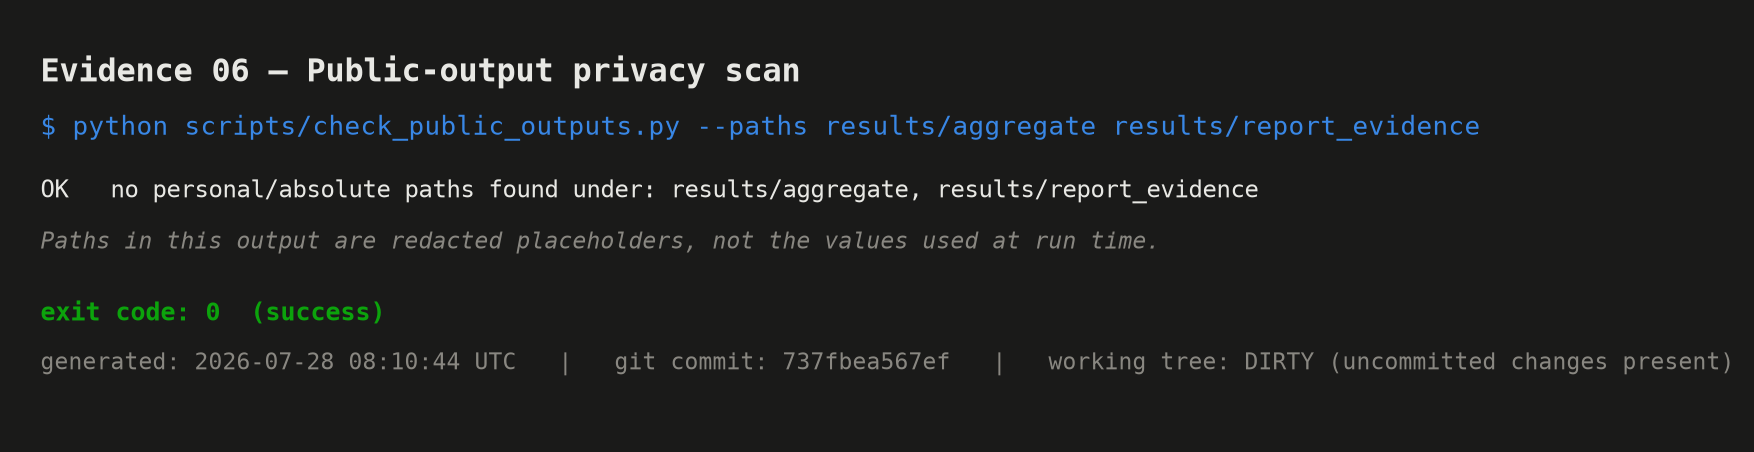
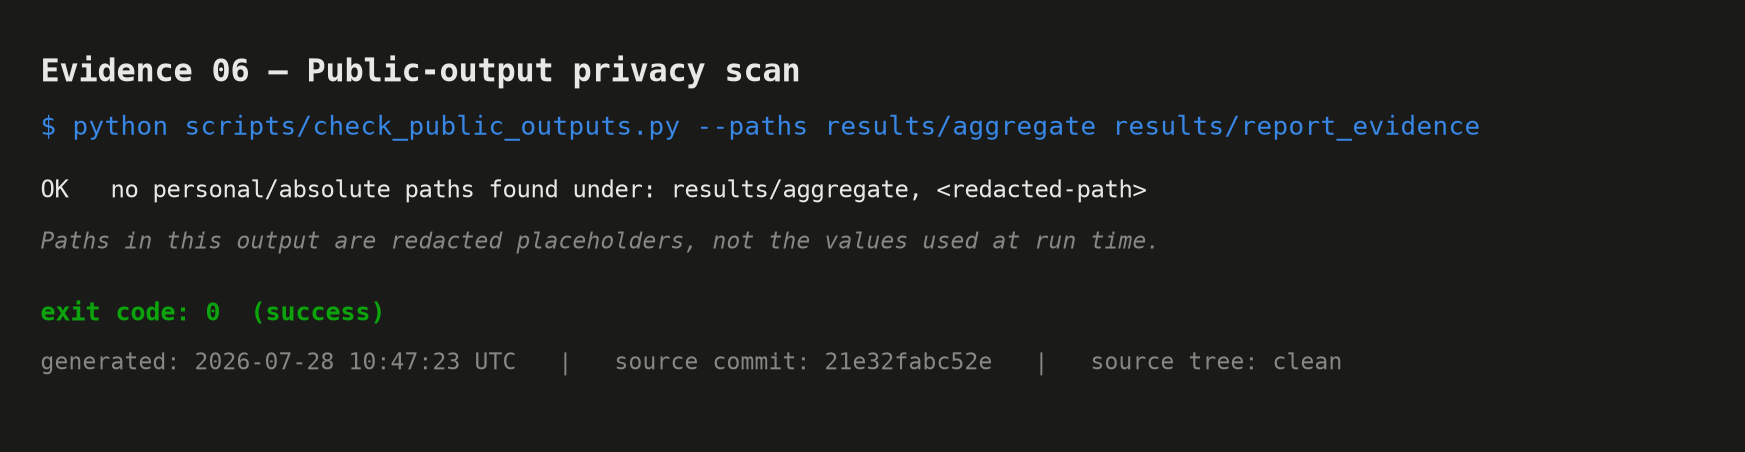
Regenerate final report evidence from a clean source commit
Generated outside the repository from source commit 21e32fa with a clean
working tree, then copied in, so the manifest can record the source state
truthfully instead of reporting the dirt that generating in place would
itself have created.

The pack now records source_git_commit, clean-tree and
outside-repository flags, and states explicitly that the evidence files
are added by this later commit rather than belonging to the source
commit named in them.

diff --git a/results/report_evidence/manual_screenshots_required.md b/results/report_evidence/manual_screenshots_required.md
@@ -8,11 +8,11 @@ These five items cannot be generated locally, and this project will not fabricat
 
 **Title.** GitHub Actions CI run passing for the final commit
 
-**Where to capture.** GitHub → the repository → Actions → the CI workflow run for the final commit
+**Where to capture.** GitHub → AdvancedComputingProject → Actions → CI → the run for the final `main` commit
 
-**Must be visible.** The workflow name, a green success tick, the commit SHA, and every job step listed.
+**Must be visible.** The repository name; the workflow name (CI); a green success status; the final commit SHA; and the completed `test` job with its steps expanded.
 
-**Must be redacted.** Your GitHub username/avatar if you prefer, and any other private repository in the sidebar.
+**Must be redacted.** Unrelated account information; any other repository in the sidebar; private email addresses.
 
 **Report section.** Appendix B — Reproducibility evidence
 
@@ -22,11 +22,11 @@ These five items cannot be generated locally, and this project will not fabricat
 
 **Title.** Repository main page at the final commit
 
-**Where to capture.** GitHub → the repository main page
+**Where to capture.** GitHub → AdvancedComputingProject → the repository main page, on branch `main`
 
-**Must be visible.** Repository name, the final commit message and SHA, and the top-level file listing.
+**Must be visible.** That the branch is `main`; the final commit message and short SHA; and the file listing including `scripts/generate_report_evidence.py`.
 
-**Must be redacted.** Nothing specific, provided no private repository is visible in the sidebar.
+**Must be redacted.** Unrelated repositories in the sidebar; private email addresses.
 
 **Report section.** Appendix B — Reproducibility evidence
 
@@ -36,11 +36,11 @@ These five items cannot be generated locally, and this project will not fabricat
 
 **Title.** Local human-review interface
 
-**Where to capture.** A terminal running the Streamlit command in README.md, then the browser at 127.0.0.1
+**Where to capture.** A terminal running `streamlit run local_review/app.py --server.address=127.0.0.1 -- --db results/raw/review.sqlite`, then the browser at 127.0.0.1
 
 **Must be visible.** The review UI showing opaque case identifiers and the reviewer decision controls.
 
-**Must be redacted.** Nothing — the interface shows only opaque identifiers by design. Confirm no real name or face image is on screen before capturing.
+**Must be redacted.** Nothing should need redacting — the interface shows only opaque identifiers by design. Confirm before capturing that no real face image, no real name and no private path is on screen; if any is, stop and report it as a defect rather than cropping it out.
 
 **Report section.** Chapter 5 — Human-review decision policy
 
@@ -50,11 +50,11 @@ These five items cannot be generated locally, and this project will not fabricat
 
 **Title.** Institutional storage location
 
-**Where to capture.** The Arden University OneDrive research folder, with folder properties/details visible
+**Where to capture.** The Arden University OneDrive research folder — **only after the migration is actually done**; it is still outstanding (see docs/USER_ACTIONS_REQUIRED.md)
 
-**Must be visible.** The folder name, that it is the institutional (not personal) account, and the item count.
+**Must be visible.** The university-controlled OneDrive identity/location; the project folder; and the high-level folder structure (datasets/, protocols/, models/).
 
-**Must be redacted.** Every unrelated personal file and folder name; the full account email if you prefer.
+**Must be redacted.** Face-image thumbnails; participant or identity names; unrelated university or personal files; absolute local paths containing your account name. Switch the file browser out of any thumbnail/preview mode before capturing.
 
 **Report section.** Appendix C — Data governance evidence
 
@@ -64,11 +64,11 @@ These five items cannot be generated locally, and this project will not fabricat
 
 **Title.** Ethics approval record
 
-**Where to capture.** The university ethics approval page or approval document — only if disclosure is permitted
+**Where to capture.** The university ethics approval page or approval document — **only if your institution permits reproducing it** in a dissertation appendix
 
-**Must be visible.** The approval reference number, the project title, and the approval date.
+**Must be visible.** The institution; the approval status; the project title or reference; and the approval date/reference number.
 
-**Must be redacted.** Reviewer names, signatures, and any personal contact details.
+**Must be redacted.** Reviewer names and signatures; personal contact details; any personal data not needed to evidence the approval itself.
 
 **Report section.** Appendix C — Data governance evidence
 

diff --git a/results/report_evidence/REPORT_EVIDENCE_INDEX.md b/results/report_evidence/REPORT_EVIDENCE_INDEX.md
@@ -1,8 +1,8 @@
 # Report evidence index
 
-Generated by `scripts/generate_report_evidence.py` at 2026-07-28 08:10:44 UTC from git commit `737fbea567ef` (working tree DIRTY at generation time).
+Generated by `scripts/generate_report_evidence.py` at 2026-07-28 10:47:24 UTC from source commit `21e32fabc52e`, whose working tree was clean at generation time.
 
-Every figure is derived only from `results/aggregate/*` — no raw image, embedding, identity or absolute path is read or reproduced. Per-item hashes are in `report_evidence_manifest.json`.
+The evidence files themselves are **not** part of that source commit: they are generated from it and added by a subsequent commit. Every figure is derived only from `results/aggregate/*` — no raw image, embedding, identity or absolute path is read or reproduced. Per-item hashes are in `report_evidence_manifest.json`.
 
 | # | File | Title | Source | Report section | May be committed |
 |---|---|---|---|---|---|
